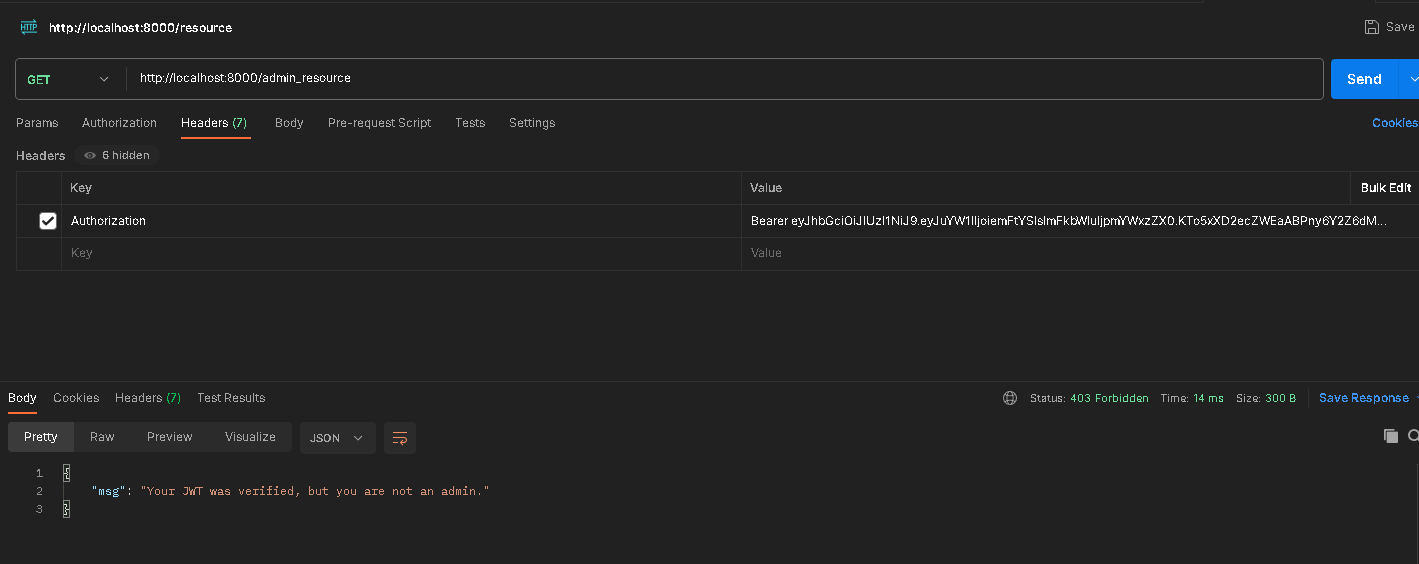
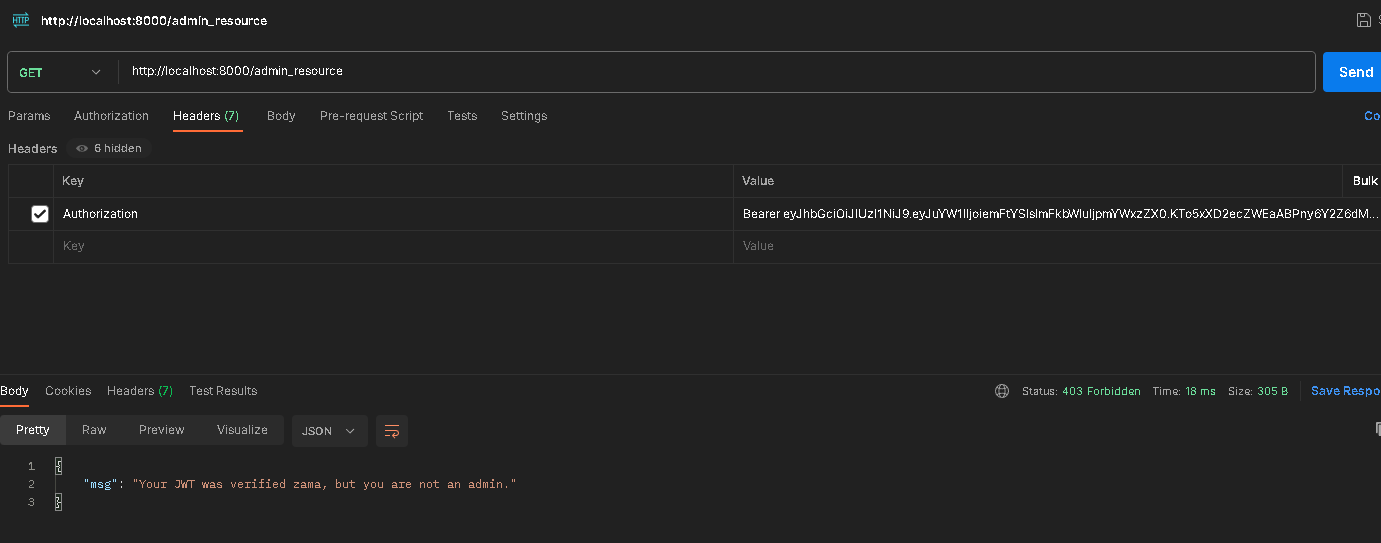
add notes

diff --git a/L3T06 - Authentication with JWT/Compulsory Task 2/index.js b/L3T06 - Authentication with JWT/Compulsory Task 2/index.js
@@ -1,6 +1,7 @@
 const express = require("express");
 const bodyParser = require("body-parser");
 const jwt = require("jsonwebtoken");
+
 const app = express();
 const PORT = 8000;
 
@@ -12,16 +13,16 @@ app.use(bodyParser.json());
 // http://localhost:8000/login
 app.post("/login", (req, res) => {
   console.log(req.body);
+
   // Req.body is sent by the client
   const usr = req.body.username;
   const pwd = req.body.password;
-  //res.send(`Username: ${usr}, Password: ${pwd}`);
 
   if (usr === "zama" && pwd === "secret") {
-    // Make JWT and chose if user has admin access
+    // Make JWT and chose if user has admin access based on true/false
     payload = {
       name: usr,
-      admin: true,
+      admin: false,
     };
     // Create JMT
     const token = jwt.sign(JSON.stringify(payload), "jwt-secret", {
@@ -60,11 +61,9 @@ app.get("/admin_resource", (req, res) => {
     if (decoded.admin) {
       res.send({ msg: `Success! Welcome admin ${decoded.name}` });
     } else {
-      res
-        .status(403)
-        .send({
-          msg: `Your JWT was verified ${decoded.name}, but you are not an admin.`,
-        });
+      res.status(403).send({
+        msg: `Your JWT was verified ${decoded.name}, but you are not an admin.`,
+      });
     }
   } catch (e) {
     res.sendStatus(401);

diff --git a/L3T06 - Authentication with JWT/Compulsory Task 2/README.md b/L3T06 - Authentication with JWT/Compulsory Task 2/README.md
@@ -2,7 +2,7 @@
 
 It includes the following:
 
-- Body-Parser to deal with request bodies before they reach the handlers
+- Body-Parser to parse the body of a request
 - Concurrently so a simple "npm start" will install all modules and run the app at the same time
 - Express to run as the backend server
 - Jsonwebtoken to identify users and their access rights
@@ -20,6 +20,9 @@ Demo use of JMT dealing with regular user and admin user GET requests for resour
 Code was written in Node.JS version 21. Node should be at the very least version 18.
 
 It is advised to test the code via Postman since a frontend does not exist.
+The folder "Screenshots and Notes" has screenshots of example Postman requests.
+It also has a file giving examples of what JWT look like.
+
 
 ## Check node version
 
